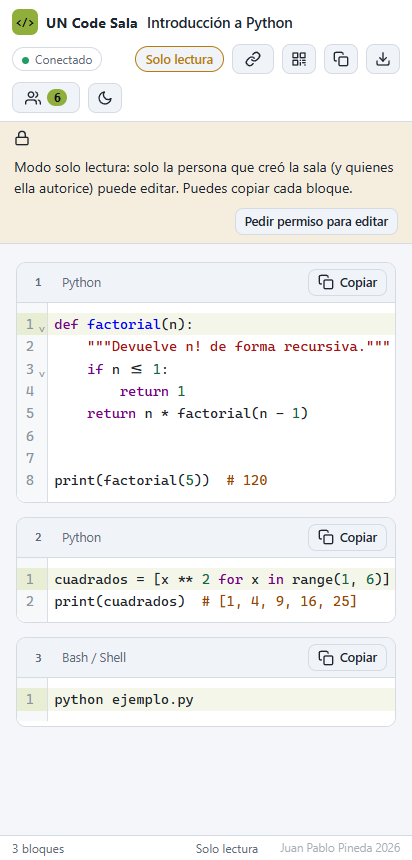
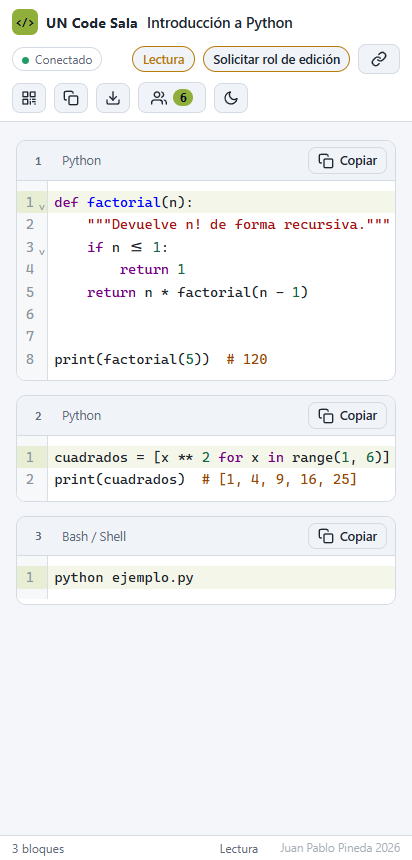
Indicador de lectura compacto con botón para solicitar el rol de edición
- Se quita la barra ancha de "Modo solo lectura". En la barra superior,
  quien solo puede leer ve "Lectura" y el botón "Solicitar rol de edición".
- La explicación pasa a un texto emergente sobre la etiqueta.
- Se reemplaza un carácter nulo suelto en room.js por su escape (\0).
- README y capturas actualizados.

diff --git a/public/style.css b/public/style.css
@@ -107,12 +107,10 @@ select:disabled { opacity: 1; cursor: default; appearance: none; -webkit-appeara
 .features span { color: var(--muted); font-size: 13px; }
 
 /* ---------- Sala ---------- */
-.room-page { display: grid; grid-template-rows: auto auto minmax(0, 1fr) auto; height: 100dvh; overflow: hidden; }
-/* Filas fijas: si el aviso de solo lectura está oculto, la barra de estado no debe subir a la fila flexible */
+.room-page { display: grid; grid-template-rows: auto minmax(0, 1fr) auto; height: 100dvh; overflow: hidden; }
 .room-page > .topbar { grid-row: 1; }
-.room-page > .banner { grid-row: 2; }
-.room-page > .workspace { grid-row: 3; }
-.room-page > .statusbar { grid-row: 4; }
+.room-page > .workspace { grid-row: 2; }
+.room-page > .statusbar { grid-row: 3; }
 
 .topbar {
   display: flex; align-items: center; gap: 8px; flex-wrap: wrap;
@@ -141,11 +139,9 @@ select:disabled { opacity: 1; cursor: default; appearance: none; -webkit-appeara
 
 .count { min-width: 20px; text-align: center; font-size: 11.5px; font-weight: 700; padding: 0 6px; border-radius: 99px; background: var(--accent); color: var(--accent-fg); }
 
-.banner {
-  display: flex; align-items: center; gap: 10px; flex-wrap: wrap;
-  padding: 8px 14px; background: color-mix(in srgb, var(--warn) 14%, var(--panel)); border-bottom: 1px solid var(--border); color: var(--fg);
-}
-.banner .btn { margin-left: auto; }
+/* Quien solo puede leer ve «Lectura» y, a su lado, el botón para pedir el rol de edición */
+.btn.request { border-radius: 99px; border-color: var(--warn); }
+.btn.request:hover { background: color-mix(in srgb, var(--warn) 14%, var(--panel-2)); }
 
 .workspace { display: flex; min-height: 0; position: relative; }
 /* ---------- Cuaderno de bloques ---------- */

diff --git a/client/room.js b/client/room.js
@@ -462,7 +462,7 @@ let seen = {}; // id de bloque -> huella de lo último que se vio
 let seenSaveTimer = null;
 
 function blockHash(card) {
-  const text = `${validLang(card.ymap.get('lang'))}${card.ytext.toString()}`;
+  const text = `${validLang(card.ymap.get('lang'))}\0${card.ytext.toString()}`;
   let h = 5381;
   for (let i = 0; i < text.length; i++) h = ((h << 5) + h + text.charCodeAt(i)) | 0;
   return `${(h >>> 0).toString(36)}.${text.length}`;
@@ -594,7 +594,7 @@ async function copyBlock(card) {
 }
 
 // ---------- Rol y personas ----------
-const ROLE_TEXT = { owner: 'Propietario', editor: 'Puedes editar', viewer: 'Solo lectura' };
+const ROLE_TEXT = { owner: 'Propietario', editor: 'Puedes editar', viewer: 'Lectura' };
 
 function applyRole(role, announce = false) {
   const previous = state.role;
@@ -614,7 +614,8 @@ function applyRole(role, announce = false) {
   badge.textContent = ROLE_TEXT[role];
   badge.dataset.role = role;
   $('#sb-role').textContent = ROLE_TEXT[role];
-  $('#banner').hidden = canEdit();
+  badge.title = role === 'viewer' ? 'Solo la persona que creó la sala (y quienes ella autorice) puede editar. Puedes copiar cada bloque.' : '';
+  $('#btn-request').hidden = canEdit();
   if (canEdit()) state.requested = false;
   renderRequestButton();
   renderRoomName();
@@ -684,7 +685,7 @@ roomNameInput.onkeydown = (e) => {
 };
 
 function renderRequestButton() {
-  $('#btn-request').textContent = state.requested ? 'Solicitud enviada (cancelar)' : 'Pedir permiso para editar';
+  $('#btn-request').textContent = state.requested ? 'Solicitud enviada (cancelar)' : 'Solicitar rol de edición';
 }
 
 function renderMembers() {

diff --git a/public/room.html b/public/room.html
@@ -40,6 +40,7 @@
     <div class="spacer"></div>
 
     <span class="role-badge" id="role-badge"></span>
+    <button class="btn small request" id="btn-request" hidden>Solicitar rol de edición</button>
 
     <button class="btn" id="btn-link" title="Copiar enlace para invitados (solo lectura)">
       <svg class="ico"><use href="#i-link"/></svg><span class="txt">Copiar enlace</span>
@@ -53,12 +54,6 @@
     </button>
     <button class="btn icon" id="btn-theme" title="Cambiar tema"><svg class="ico"><use href="#i-sun"/></svg></button>
   </header>
-
-  <div class="banner" id="banner" hidden>
-    <svg class="ico"><use href="#i-lock"/></svg>
-    <span>Modo solo lectura: solo la persona que creó la sala (y quienes ella autorice) puede editar. Puedes copiar cada bloque.</span>
-    <button class="btn small" id="btn-request">Pedir permiso para editar</button>
-  </div>
 
   <main class="workspace">
     <div class="notebook-scroll" id="scroll">

diff --git a/README.md b/README.md
@@ -20,14 +20,14 @@ UN Code Sala responde a ambos: solo el propietario (y a quien autorice) puede ed
 - Nombre de sala editable por el propietario y **código QR** para entrar desde el celular.
 - **Mis salas** en la portada, con el lenguaje del primer bloque y un botón para **eliminar** cada sala.
 - **Limpiar sala** elimina todos los bloques de una vez, con un aviso para deshacer.
-- Permisos por sala: propietario, editores y espectadores. Un espectador puede **pedir permiso** y el propietario lo concede o lo quita al instante.
+- Permisos por sala: propietario, editores y espectadores. Quien solo puede leer ve «Lectura», puede **solicitar el rol de edición** y el propietario lo concede o lo quita al instante.
 - Descargar los bloques, tema claro u oscuro, sin cuentas ni registro.
 
 ## Capturas
 
 | | |
 | --- | --- |
-| **Portada.** Nombre, lenguaje y un clic para crear la sala. | **Invitado.** Solo lectura: puede copiar cada bloque y pedir permiso. |
+| **Portada.** Nombre, lenguaje y un clic para crear la sala. | **Invitado.** Lectura: puede copiar cada bloque y solicitar el rol de edición. |
 | ![Portada](docs/img/portada.png) | ![Sala en solo lectura](docs/img/sala-invitado.png) |
 | **Personas.** El propietario ve quién está conectado y quién pide editar. | **Código QR.** Para proyectarlo en clase; lleva el enlace de invitados. |
 | ![Panel de personas](docs/img/personas.png) | ![Código QR](docs/img/qr.png) |
